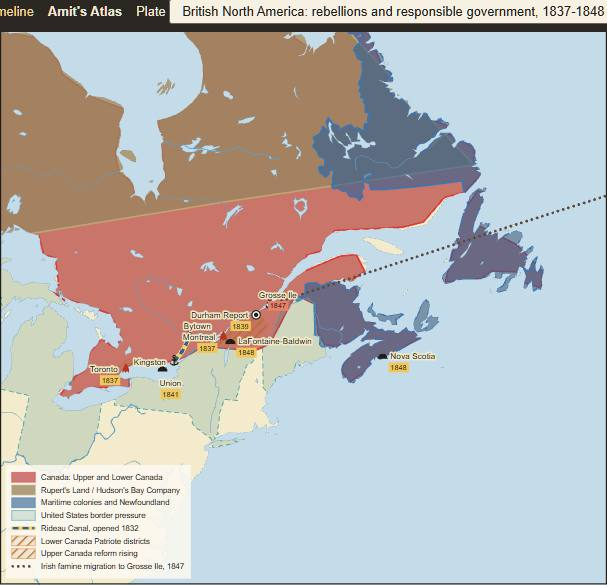
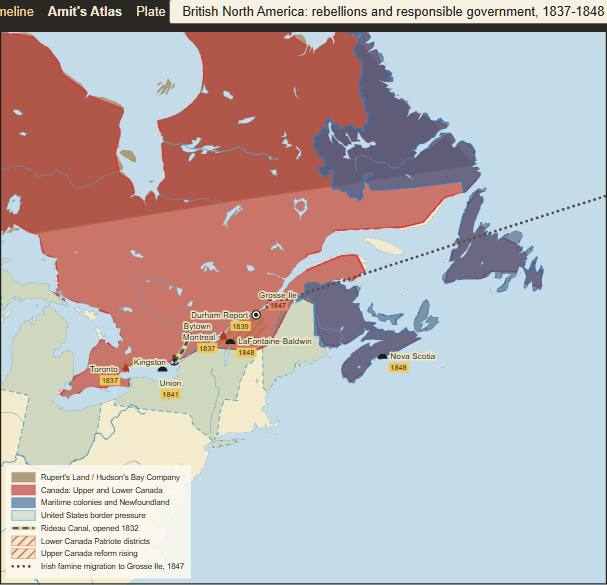
Fix restoration Germany and viewer framing
Use historical-basemap geometry in Zollverein small multiples and tighten the British North America scene focus.

Copilot-Session: 37f2f47f-8b63-49cd-b8ce-cded564ac449

Changed region(s): [[0.0, 0.0308, 0.6227, 0.4], [0.0, 0.8, 0.2965, 0.8615]]

diff --git a/atlas/plates/germany-confederation-zollverein-frankfurt-1815-1848.js b/atlas/plates/germany-confederation-zollverein-frankfurt-1815-1848.js
@@ -1,22 +1,41 @@
 (function(){
  const AUS="#d8a84f", PRUS="#4f7f4f", PALE="#e6c989", ZOLL="#b36b2e", NEW="#8c3b3b", ROAD="#5b4a3f", NEUT="#b8b1a1";
  const confed=[[7.2,53.3],[6.9,52.4],[6.0,50.8],[5.8,49.5],[6.4,49.2],[8.2,48.95],[7.6,47.6],[9.6,47.5],[10.4,46.6],[10.6,45.85],[11.7,45.9],[12.6,46.0],[13.6,45.6],[14.6,45.5],[15.7,46.0],[16.1,46.6],[16.6,47.5],[17.1,48.1],[17.6,48.85],[18.85,49.5],[18.6,50.0],[18.2,50.6],[17.6,51.4],[16.4,51.8],[15.6,52.5],[16.2,53.2],[17.0,53.7],[17.6,54.7],[13.4,54.6],[10.9,54.35],[9.6,54.3],[8.8,54.0],[7.2,53.3]];
- const austria=(s)=>({id:`austria-${s}`,type:"area",polygon:[[9.5,46.2],[13.5,49.2],[17.8,49.5],[18.7,48.3],[16.2,46.1],[12.2,45.8],[9.5,46.2]],colour:AUS,tier:"core",legend:"Austria chairs the Confederation",clipToLand:true});
+ const austria=(s)=>({id:`austria-${s}`,type:"area",hist:{year:1815,names:["Austrian Empire"]},colour:AUS,tier:"influence",legend:"Austria (outside Zollverein)"});
  const conf=(s)=>({id:`confed-${s}`,type:"boundary",style:"dashed",colour:ROAD,width:2.2,legend:"German Confederation boundary",closed:true,path:confed});
- const prussian1828=["DE-BB","DE-BE","DE-NW","DE-RP","DE-SL","DE-ST","PL-DS","PL-OP"];
- const z1834=[...prussian1828,"DE-SN","DE-TH","DE-HE","DE-BY","DE-BW"];
- const z1854=[...z1834,"DE-NI"];
- const ctx=(s)=>[austria(s),conf(s),{id:`neutral-low-${s}`,type:"area",regions:["BEL","NLD"],colour:NEUT,tier:"influence",legend:"Netherlands and Belgium outside"}];
- const earlier=(id,regions)=>({id,type:"area",regions,colour:PALE,tier:"influence",legend:"Earlier members"});
- const newer=(id,regions,legend)=>({id,type:"area",regions,colour:NEW,tier:"core",legend});
+ const histArea=(id,names,colour,tier,legend)=>({id,type:"area",hist:{year:1815,names},colour,tier,legend});
+ const prussia=(id,colour,tier,legend)=>histArea(id,["Prussia"],colour,tier,legend);
+ const bavaria=(id,colour,tier,legend)=>histArea(id,["Bavaria"],colour,tier,legend);
+ const saxony=(id,colour,tier,legend)=>histArea(id,["Saxony"],colour,tier,legend);
+ const wurttemberg=(id,colour,tier,legend)=>histArea(id,["Württemberg","Wurttemberg"],colour,tier,legend);
+ const baden=(id,colour,tier,legend)=>histArea(id,["Baden"],colour,tier,legend);
+ const hanover=(id,colour,tier,legend)=>histArea(id,["Hanover","Kingdom of Hanover"],colour,tier,legend);
+ const hesse=(id,colour,tier,legend)=>({id,type:"area",regions:["DE-HE","DE-TH"],colour,tier,legend});
+ const ctx=(s)=>[austria(s),conf(s)];
+ const earlierPrussia=(id)=>prussia(id,PALE,"influence","Earlier members (pale)");
+ const earlier1834=(s)=>[
+   earlierPrussia(`z-${s}-prussia-old`),
+   bavaria(`z-${s}-bavaria-old`,PALE,"influence","Earlier members (pale)"),
+   saxony(`z-${s}-saxony-old`,PALE,"influence","Earlier members (pale)"),
+   wurttemberg(`z-${s}-wuerttemberg-old`,PALE,"influence","Earlier members (pale)"),
+   baden(`z-${s}-baden-old`,PALE,"influence","Earlier members (pale)"),
+   hesse(`z-${s}-hesse-old`,PALE,"influence","Earlier members (pale)")
+ ];
+ const new1834=()=>[
+   bavaria("z-1834-bavaria-new",NEW,"core","New in this panel (strong)"),
+   saxony("z-1834-saxony-new",NEW,"core","New in this panel (strong)"),
+   wurttemberg("z-1834-wuerttemberg-new",NEW,"core","New in this panel (strong)"),
+   baden("z-1834-baden-new",NEW,"core","New in this panel (strong)"),
+   hesse("z-1834-hesse-new",NEW,"core","New in this panel (strong)")
+ ];
  window.PLATES["germany-confederation-zollverein-frankfurt-1815-1848"]={id:"germany-confederation-zollverein-frankfurt-1815-1848",title:"Germany: Confederation, Zollverein and Frankfurt, 1815-1848",head:"Restoration / Germany I-II",folio:"46-47, 58-61",viewer:"restoration/1834/ch-german-confederation-zollverein",figures:[{caption:"The German Confederation and the Zollverein",share:0.58,extent:[[4,45],[20,55]],projection:"conic",layers:[
- {id:"austria-main",type:"area",polygon:[[9.5,46.2],[13.5,49.2],[17.8,49.5],[18.7,48.3],[16.2,46.1],[12.2,45.8],[9.5,46.2]],colour:AUS,tier:"core",legend:"Austria chairs the Confederation",clipToLand:true},
+ {id:"austria-main",type:"area",hist:{year:1815,names:["Austrian Empire"]},colour:AUS,tier:"influence",legend:"Austria (outside Zollverein)"},
  {id:"prussia",type:"area",hist:{year:1815,names:["Prussia"]},colour:PRUS,tier:"core",legend:"Prussia, split east and west"},
  {id:"low-countries",type:"area",regions:["BEL","NLD"],colour:NEUT,tier:"influence",legend:"Belgium and Netherlands outside"},
- {id:"zollverein",type:"area",pattern:"stripe",colour:ZOLL,legend:"Zollverein core by 1834",regions:z1834}, conf("main"),
+ {id:"zollverein",type:"area",pattern:"stripe",colour:ZOLL,legend:"Zollverein core by 1834",regions:["DE-BY","DE-BW","DE-SN","DE-TH","DE-HE","DE-RP","DE-NW","DE-ST"]}, conf("main"),
  {id:"frankfurt",type:"point",symbol:"parliament",at:[8.68,50.11],name:"Frankfurt",labelPos:"w",tag:{text:"1848",colour:"#f1c75b"}}, {id:"berlin",type:"point",symbol:"capital",at:[13.40,52.52],name:"Berlin",labelPos:"e"}, {id:"vienna",type:"point",symbol:"capital",at:[16.37,48.21],name:"Vienna",labelPos:"e"}, {id:"hambach",type:"point",symbol:"insurrection",at:[8.27,49.32],name:"Hambach",labelPos:"s",tag:{text:"1832",colour:"#f1c75b"}}, {id:"wartburg",type:"point",symbol:"university",at:[10.31,50.97],name:"Wartburg",labelPos:"n",tag:{text:"1817",colour:"#f1c75b"}}
 ],legend:{position:"bottom-left",columns:1}},{caption:"Zollverein growth: Austria stays outside the customs union",kind:"small-multiples",share:0.42,extent:[[5,45.7],[18.5,54.9]],projection:"conic",layers:[],panelAspect:0.88,panels:[
- {caption:"1828 Prussian customs union",layers:[...ctx("1828"),newer("z-1828-new",prussian1828,"Prussian customs area")]},
- {caption:"1834 Zollverein",layers:[...ctx("1834"),earlier("z-1834-old",prussian1828),newer("z-1834-new",z1834.filter(x=>!prussian1828.includes(x)),"New in 1834")]},
- {caption:"1854 after Hanover joins",layers:[...ctx("1854"),earlier("z-1854-old",z1834),newer("z-1854-new",["DE-NI"],"New by 1854")]}],legend:{position:"bottom-left",columns:1}}],text:{intro:"Germany after 1815 had a political confederation and, increasingly, an economic union. That mismatch made Frankfurt possible and fragile.",sections:[{heading:"Confederation",entries:[{date:"1815-1848",text:"The German Confederation includes Austria proper, Bohemia, Moravia and Holstein, but not Hungary, Galicia, Schleswig, East Prussia or Posen.",refs:["austria-main","prussia","confed-main","low-countries","vienna","berlin"]},{date:"1817-1832",text:"Wartburg and Hambach show the liberal-national opposition that Metternich tries to police.",refs:["wartburg","hambach"]},{date:"1848",text:"The Frankfurt Parliament tries to turn national politics into a constitution.",refs:["frankfurt"]}]},{heading:"Zollverein",entries:[{date:"1828-1854",text:"Customs union grows from Prussian arrangements into a wider Zollverein; Austria remains outside, which is the political point.",refs:["zollverein","z-1828-new","z-1834-old","z-1834-new","z-1854-old","z-1854-new"]}]}]},sources:["Penguin Atlas Vol. 2 pp. 46-47 and 58-61"]};
+ {caption:"1828 Prussian union",layers:[...ctx("1828"),prussia("z-1828-new",NEW,"core","New in this panel (strong)")]},
+ {caption:"1834 Zollverein",layers:[...ctx("1834"),earlierPrussia("z-1834-prussia-old"),...new1834()]},
+ {caption:"1854 Hanover joins",layers:[...ctx("1854"),...earlier1834("1854"),hanover("z-1854-hanover-new",NEW,"core","New in this panel (strong)")]}],legend:{position:"bottom-left",columns:1}}],text:{intro:"Germany after 1815 had a political confederation and, increasingly, an economic union. That mismatch made Frankfurt possible and fragile.",sections:[{heading:"Confederation",entries:[{date:"1815-1848",text:"The German Confederation includes Austria proper, Bohemia, Moravia and Holstein, but not Hungary, Galicia, Schleswig, East Prussia or Posen.",refs:["austria-main","prussia","confed-main","low-countries","vienna","berlin"]},{date:"1817-1832",text:"Wartburg and Hambach show the liberal-national opposition that Metternich tries to police.",refs:["wartburg","hambach"]},{date:"1848",text:"The Frankfurt Parliament tries to turn national politics into a constitution.",refs:["frankfurt"]}]},{heading:"Zollverein",entries:[{date:"1828-1854",text:"Customs union grows from Prussian arrangements into a wider Zollverein; Austria remains outside, which is the political point.",refs:["zollverein","z-1828-new","z-1834-prussia-old","z-1834-bavaria-new","z-1834-saxony-new","z-1834-wuerttemberg-new","z-1834-baden-new","z-1834-hesse-new","z-1854-prussia-old","z-1854-bavaria-old","z-1854-saxony-old","z-1854-wuerttemberg-old","z-1854-baden-old","z-1854-hesse-old","z-1854-hanover-new"]}]}]},sources:["Penguin Atlas Vol. 2 pp. 46-47 and 58-61"]};
 })();

diff --git a/app/scenes/restoration.js b/app/scenes/restoration.js
@@ -5,8 +5,8 @@
   const p=(id,caption,bbox,layers,terms)=>({id,caption,bbox,layers,terms:terms||[]});
   window.SCENES = window.SCENES || {};
   window.SCENES.restoration = {
-    "part-canada-restoration":p("part-canada-restoration","British North America moves from defensive infrastructure to political reform.",[[-85,41],[-60,50]],[{type:"area",name:"British North America",around:[[-83,42],[-77,46],[-70,48],[-62,46],[-66,43],[-75,42]],colour:C.CAN,tier:"core",who:"British North America"},{type:"route",style:"road",path:[[-75.69,45.42],[-76.49,44.23]],colour:C.BRIT,label:"Rideau"},{type:"point",at:[-73.56,45.50],symbol:"insurrection",name:"Lower Canada",year:"1837"},{type:"point",at:[-79.38,43.65],symbol:"insurrection",name:"Upper Canada",year:"1837"},{type:"point",at:[-63.58,44.65],symbol:"capital",name:"Nova Scotia",year:"1848"}], [{t:"responsible government",star:"Why did responsible government solve a colonial crisis without independence?"}]),
-    "ch-bna-rebellions-responsible":p("ch-bna-rebellions-responsible","Rebellion did not win militarily, but it changed the constitutional settlement.",[[-85,41],[-60,50]],[{type:"area",name:"Province of Canada",around:[[-83,42],[-78,45],[-72,47],[-69,45],[-75,42]],colour:C.CAN,tier:"core"},{type:"point",at:[-73.56,45.50],symbol:"insurrection",name:"Patriotes",year:"1837"},{type:"point",at:[-79.38,43.65],symbol:"insurrection",name:"Mackenzie",year:"1837"},{type:"point",at:[-71.21,46.81],symbol:"treaty",name:"Durham Report",year:"1839"},{type:"point",at:[-73.56,45.50],symbol:"capital",name:"Union",year:"1840"},{type:"point",at:[-70.67,47.02],symbol:"port",name:"Grosse Ile",year:"1847"}]),
+    "part-canada-restoration":p("part-canada-restoration","British North America moves from defensive infrastructure to political reform.",[[-84,41],[-60,50]],[{type:"area",name:"British North America",around:[[-83,42],[-77,46],[-70,48],[-62,46],[-66,43],[-75,42]],colour:C.CAN,tier:"core",who:"British North America"},{type:"route",style:"road",path:[[-75.69,45.42],[-76.49,44.23]],colour:C.BRIT,label:"Rideau"},{type:"point",at:[-73.56,45.50],symbol:"insurrection",name:"Lower Canada",year:"1837"},{type:"point",at:[-79.38,43.65],symbol:"insurrection",name:"Upper Canada",year:"1837"},{type:"point",at:[-63.58,44.65],symbol:"capital",name:"Nova Scotia",year:"1848"}], [{t:"responsible government",star:"Why did responsible government solve a colonial crisis without independence?"}]),
+    "ch-bna-rebellions-responsible":Object.assign(p("ch-bna-rebellions-responsible","Rebellion did not win militarily, but it changed the constitutional settlement.",[[-84,41],[-60,50]],[{type:"area",name:"Province of Canada",hist:{year:1815,names:["Canada"]},colour:C.CAN,tier:"core"},{type:"point",at:[-73.56,45.50],symbol:"insurrection",name:"Patriotes",year:"1837",side:"l"},{type:"point",at:[-79.38,43.65],symbol:"insurrection",name:"Mackenzie",year:"1837",side:"l"},{type:"point",at:[-72.05,46.35],symbol:"treaty",name:"Durham Report",year:"1839",side:"l"},{type:"point",at:[-76.49,44.23],symbol:"capital",name:"Union",year:"1841",side:"r",minK:1.35},{type:"point",at:[-70.67,47.02],symbol:"port",name:"Grosse Ile",year:"1847",side:"r",minK:1.55}]),{usePlateAreas:false}),
 
     "part-ideas-britain":p("part-ideas-britain","Ideas and industrial reform make politics a social question.",[[-8,45],[20,56]],[{type:"area",name:"Britain",around:[[-6,50],[-3,56],[1,54],[0,51],[-4,50]],colour:C.BRIT,tier:"core"},{type:"point",at:[-2.24,53.48],symbol:"city",name:"Manchester",year:"1819"},{type:"point",at:[-0.13,51.51],symbol:"capital",name:"Reform Act",year:"1832"},{type:"point",at:[13.40,52.52],symbol:"capital",name:"Hegel",year:"1819"}]),
     "part-national-revolutions":p("part-national-revolutions","Independence, removal, abolition and imperial war widen the age beyond Europe.",[[-120,-40],[123,35]],[{type:"route",style:"road",path:[[-66.90,10.48],[-74.08,4.71],[-79.90,-2.19],[-77.04,-12.05]],colour:C.LAT,label:"Bolivar"},{type:"point",at:[-99.13,19.43],symbol:"capital",name:"Mexico",year:"1821"},{type:"point",at:[118.80,32.06],symbol:"treaty",name:"Nanking",year:"1842"},{type:"point",at:[-10.80,6.31],symbol:"port",name:"Liberia",year:"1822"},{type:"route",style:"dashed",path:[[18.42,-33.92],[26.22,-29.12]],colour:C.LIB,label:"Great Trek"}]),

diff --git a/app/data/restoration.js b/app/data/restoration.js
@@ -100,8 +100,8 @@
     E("europe","1848-06","Prague uprising",L.PRAG,{section:S.fortyeight,wiki:"Prague uprising of 1848",text:"A Slavic congress and street fighting expose national conflicts inside the Habsburg monarchy."})
   ];
   const chapters = [
-    {id:"part-canada-restoration",title:"British North America 1815-1850",start:"1815",end:"1848",region:"americas",focusPriority:10,plate:"british-north-america-rebellions-responsible-government-1837-1848",text:"British North America moves from military canal building to rebellion, union and responsible government.",bbox:[[-84,42],[-51,53]]},
-    {id:"ch-bna-rebellions-responsible",parent:"part-canada-restoration",title:"Rebellions and responsible government, 1837-1848",start:"1826",end:"1848",region:"americas",section:S.canada,focusPriority:14,plate:"british-north-america-rebellions-responsible-government-1837-1848",text:"The Rideau Canal, the rebellions, Durham, Union and LaFontaine-Baldwin make Canada part of the age of reform.",bbox:[[-84,42],[-51,53]]},
+    {id:"part-canada-restoration",title:"British North America 1815-1850",start:"1815",end:"1848",region:"americas",focusPriority:10,plate:"british-north-america-rebellions-responsible-government-1837-1848",text:"British North America moves from military canal building to rebellion, union and responsible government.",bbox:[[-84,41],[-60,50]]},
+    {id:"ch-bna-rebellions-responsible",parent:"part-canada-restoration",title:"Rebellions and responsible government, 1837-1848",start:"1826",end:"1848",region:"americas",section:S.canada,focusPriority:14,plate:"british-north-america-rebellions-responsible-government-1837-1848",text:"The Rideau Canal, the rebellions, Durham, Union and LaFontaine-Baldwin make Canada part of the age of reform.",bbox:[[-84,41],[-60,50]]},
     {id:"part-ideas-britain",title:"Ideas, industry and reform",start:"1815",end:"1848",region:"europe",focusPriority:5,text:"Conservative, liberal, democratic, nationalist and socialist languages form while Britain industrializes and reforms.",bbox:[[-8,49],[3,56]]},
     {id:"ch-political-thought-1815",parent:"part-ideas-britain",title:"Political thought after 1815",start:"1815",end:"1848",region:"europe",section:S.thought,text:"Restoration conservatism, liberal constitutionalism, nationalism and socialism define the century's arguments.",bbox:[[2,45],[20,53]]},
     {id:"ch-britain-reform-industry",parent:"part-ideas-britain",title:"Great Britain, reform and industry",start:"1815",end:"1848",region:"europe",section:S.britain,text:"Britain answers industrial society with repression, reform, railways, Chartism, free trade and Irish crisis.",bbox:[[-8,49],[3,56]]},

diff --git a/app/js/viewer.js b/app/js/viewer.js
@@ -212,9 +212,10 @@
   }
   function sceneLayersForChapter(ch, scene) {
     if (!scene) return [];
-    const plateAreas = plateAreaLayers(ch);
+    const plateAreas = scene.usePlateAreas === false ? [] : plateAreaLayers(ch);
     const rest = scene.layers.filter((L) => L.type !== "area");
-    return plateAreas.length ? [...plateAreas, ...rest] : rest;
+    if (plateAreas.length) return [...plateAreas, ...rest];
+    return scene.usePlateAreas === false ? scene.layers : rest;
   }
   const HIST_PALETTE = [
     "#8f5d4a", "#5f8a6a", "#657eaa", "#b08345", "#8a5b89", "#829a4f", "#a05f68", "#4f8d91",
@@ -568,7 +569,7 @@
       const g = root.append("g").attr("class", `s-L s-${L.type}`).datum(L);
       const colour = L.colour || "#8a7a5a";
       if (L.type === "area") {
-        if (L.source === "plate") drawPlateArea(g, L, colour, ghost);
+        if (L.source === "plate" || L.hist || L.regions) drawPlateArea(g, L, colour, ghost);
       } else if (L.type === "boundary") {
         g.append("path").attr("d", geoPath({ type: "LineString", coordinates: L.path })).attr("class", `s-line ${L.style || "dashed"}`).style("stroke", L.colour || null);
       } else if (L.type === "front") {
@@ -1761,7 +1762,7 @@
       svg.append("text").attr("class", "m-gap m-gap-label").attr("x", gx0 + gw / 2).attr("y", axisY + 24).attr("text-anchor", "middle").text(q.gapAfter);
     });
     const n = L.breaks.length - 1;
-    if (n > 1) svg.append("text").attr("class", "m-scale").attr("x", x(L.breaks[n - 1]) - 4).attr("y", 4).attr("text-anchor", "end")
+    if (n > 1 && W >= 1600) svg.append("text").attr("class", "m-scale").attr("x", x(L.breaks[n - 1]) - 4).attr("y", 4).attr("text-anchor", "end")
       .text("scale stretches toward the present ›").append("title").text("Each stretch between the marked years gets the same width, so short modern periods stay visible.");
     const p = state.ds && L.periods.find((q) => q.id === state.dsId);
     const g = svg.selectAll("g.m-period").data(L.periods).join("g")

diff --git a/atlas/plates/british-north-america-rebellions-responsible-government-1837-1848.js b/atlas/plates/british-north-america-rebellions-responsible-government-1837-1848.js
@@ -1,8 +1,8 @@
 (function(){
  const CAN="#b22d2d", BRIT="#2f5f93", HBC="#9a855f", REFORM="#b36b2e", USA="#2f7f86", ROAD="#5b4a3f";
  window.PLATES["british-north-america-rebellions-responsible-government-1837-1848"]={id:"british-north-america-rebellions-responsible-government-1837-1848",title:"British North America: rebellions and responsible government, 1837-1848",head:"Restoration / Canada",folio:"synthesis with pp. 42-61",viewer:"restoration/1839/ch-bna-rebellions-responsible",figures:[{caption:"Rebellion, union and responsible government in British North America",share:0.68,extent:[[-86,41],[-51,53]],projection:"conic",layers:[
- {id:"canada",type:"area",hist:{year:1815,names:["Canada"]},colour:CAN,tier:"core",legend:"Canada: Upper and Lower Canada"},
  {id:"hbc",type:"area",hist:{year:1800,names:["Rupert's Land"]},colour:HBC,tier:"core",opacity:0.78,legend:"Rupert's Land / Hudson's Bay Company"},
+ {id:"canada",type:"area",hist:{year:1815,names:["Canada"]},colour:CAN,tier:"core",legend:"Canada: Upper and Lower Canada"},
  {id:"maritimes",type:"area",regions:["CA-NS","CA-NB","CA-PE","CA-NL"],colour:BRIT,tier:"core",legend:"Maritime colonies and Newfoundland"},
  {id:"us-border",type:"area",regions:["US-ME","US-VT","US-NY","US-MI","US-OH"],colour:USA,tier:"influence",legend:"United States border pressure"},
  {id:"rideau",type:"route",style:"road",colour:BRIT,weight:2.4,legend:"Rideau Canal, opened 1832",path:[[-76.49,44.23],[-76.0,44.8],[-75.69,45.42]]},

diff --git a/app/js/model.js b/app/js/model.js
@@ -637,7 +637,7 @@
     scene.layers.forEach((L, i) => {
       const w = `layer ${i + 1} (${L.name || L.text || L.type})`;
       if (!SCENE_TYPES.includes(L.type)) return bad(`${w}: unknown type ${L.type}`);
-      if (L.type === "area" && !(Array.isArray(L.around) && L.around.length >= 3 && L.around.every(ll))) bad(`${w}: area needs around of 3+ [lon,lat]`);
+      if (L.type === "area" && !(Array.isArray(L.around) && L.around.length >= 3 && L.around.every(ll)) && !(Array.isArray(L.regions) && L.regions.length) && !(L.hist && Number.isFinite(+L.hist.year) && Array.isArray(L.hist.names) && L.hist.names.length)) bad(`${w}: area needs around of 3+ [lon,lat], regions, or hist names`);
       if (L.type === "area" && L.tier && !SCENE_TIERS.includes(L.tier)) bad(`${w}: unknown tier ${L.tier}`);
       if (["arrow", "route", "boundary"].includes(L.type) && !(Array.isArray(L.path) && L.path.length >= 2 && L.path.every(ll))) bad(`${w}: needs a path of 2+ [lon,lat]`);
       if (L.type === "point" && !ll(L.at)) bad(`${w}: point needs at`);

diff --git a/atlas/js/plate.js b/atlas/js/plate.js
@@ -420,7 +420,7 @@ function drawSmallMultiplesFigure(container, fig, fi, w, h, uid) {
     const all = [...(fig.layers || []), ...(panel.layers || [])];
     let panelAreaSeq = 0;
     const drawPanelArea = (L0) => {
-      const L = areaLook(L0), d = regionPath(L, geo, proj) || zonePath(L, proj);
+      const L = areaLook(L0), d = histPath(L, geo) || regionPath(L, geo, proj) || zonePath(L, proj);
       if (!d) return;
       const lg = areaLayer.append("g").attr("class", `layer ${L.type}`).attr("data-layer", L.id || null);
       const clipToLand = areaClipToLand(L) && !L.regions;
@@ -1049,3 +1049,4 @@ function drawSmallMultiplesFigure(container, fig, fi, w, h, uid) {
     show(pick());
   });
 })();
+
